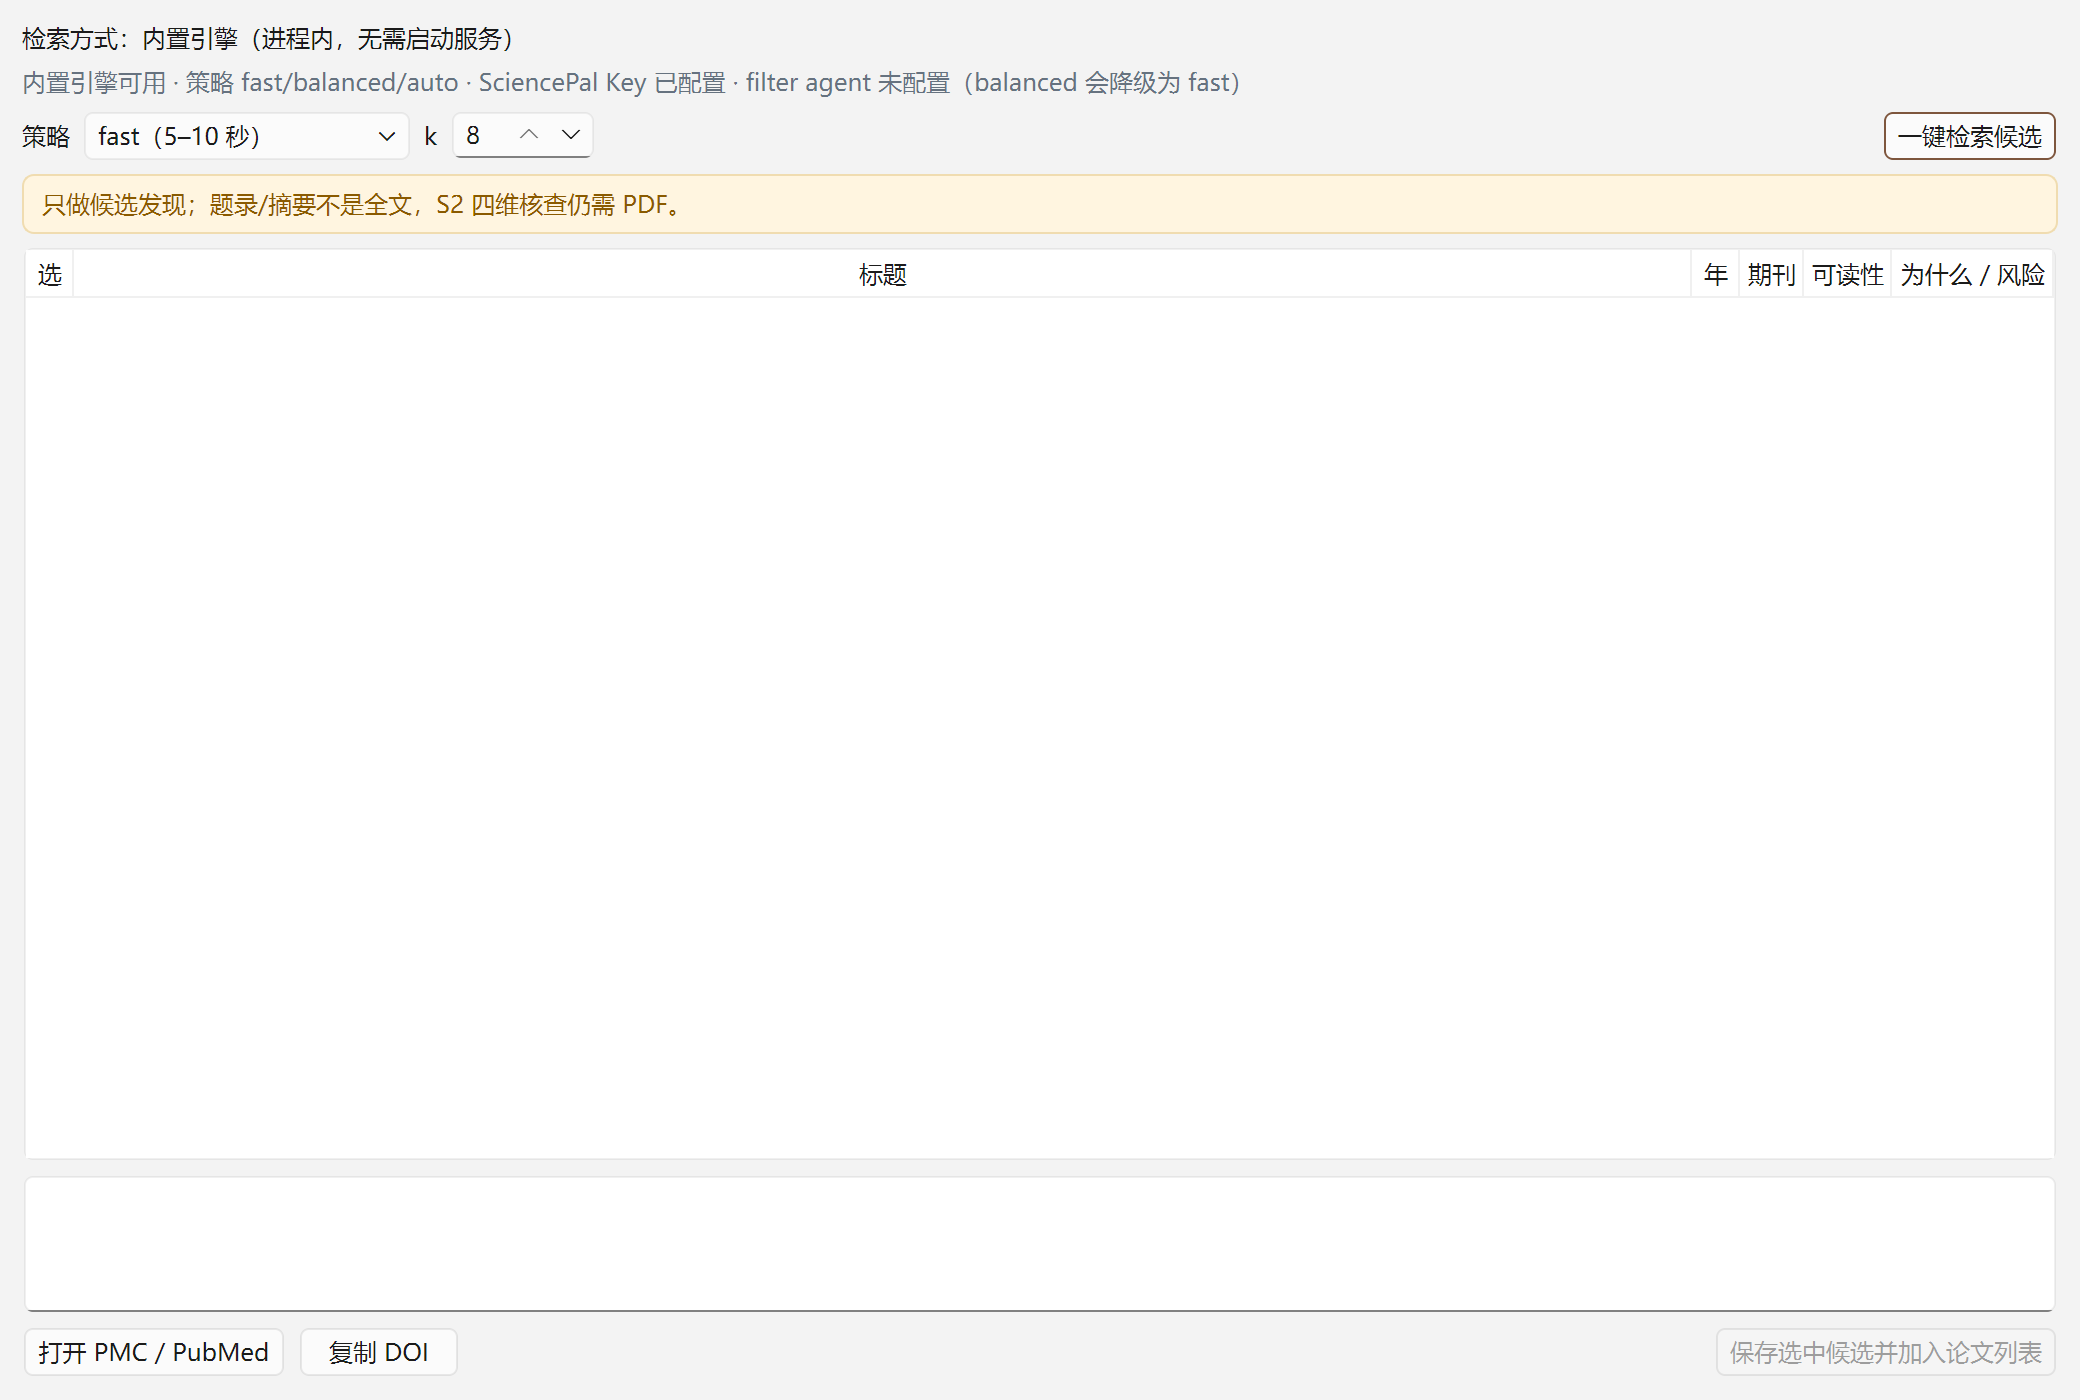
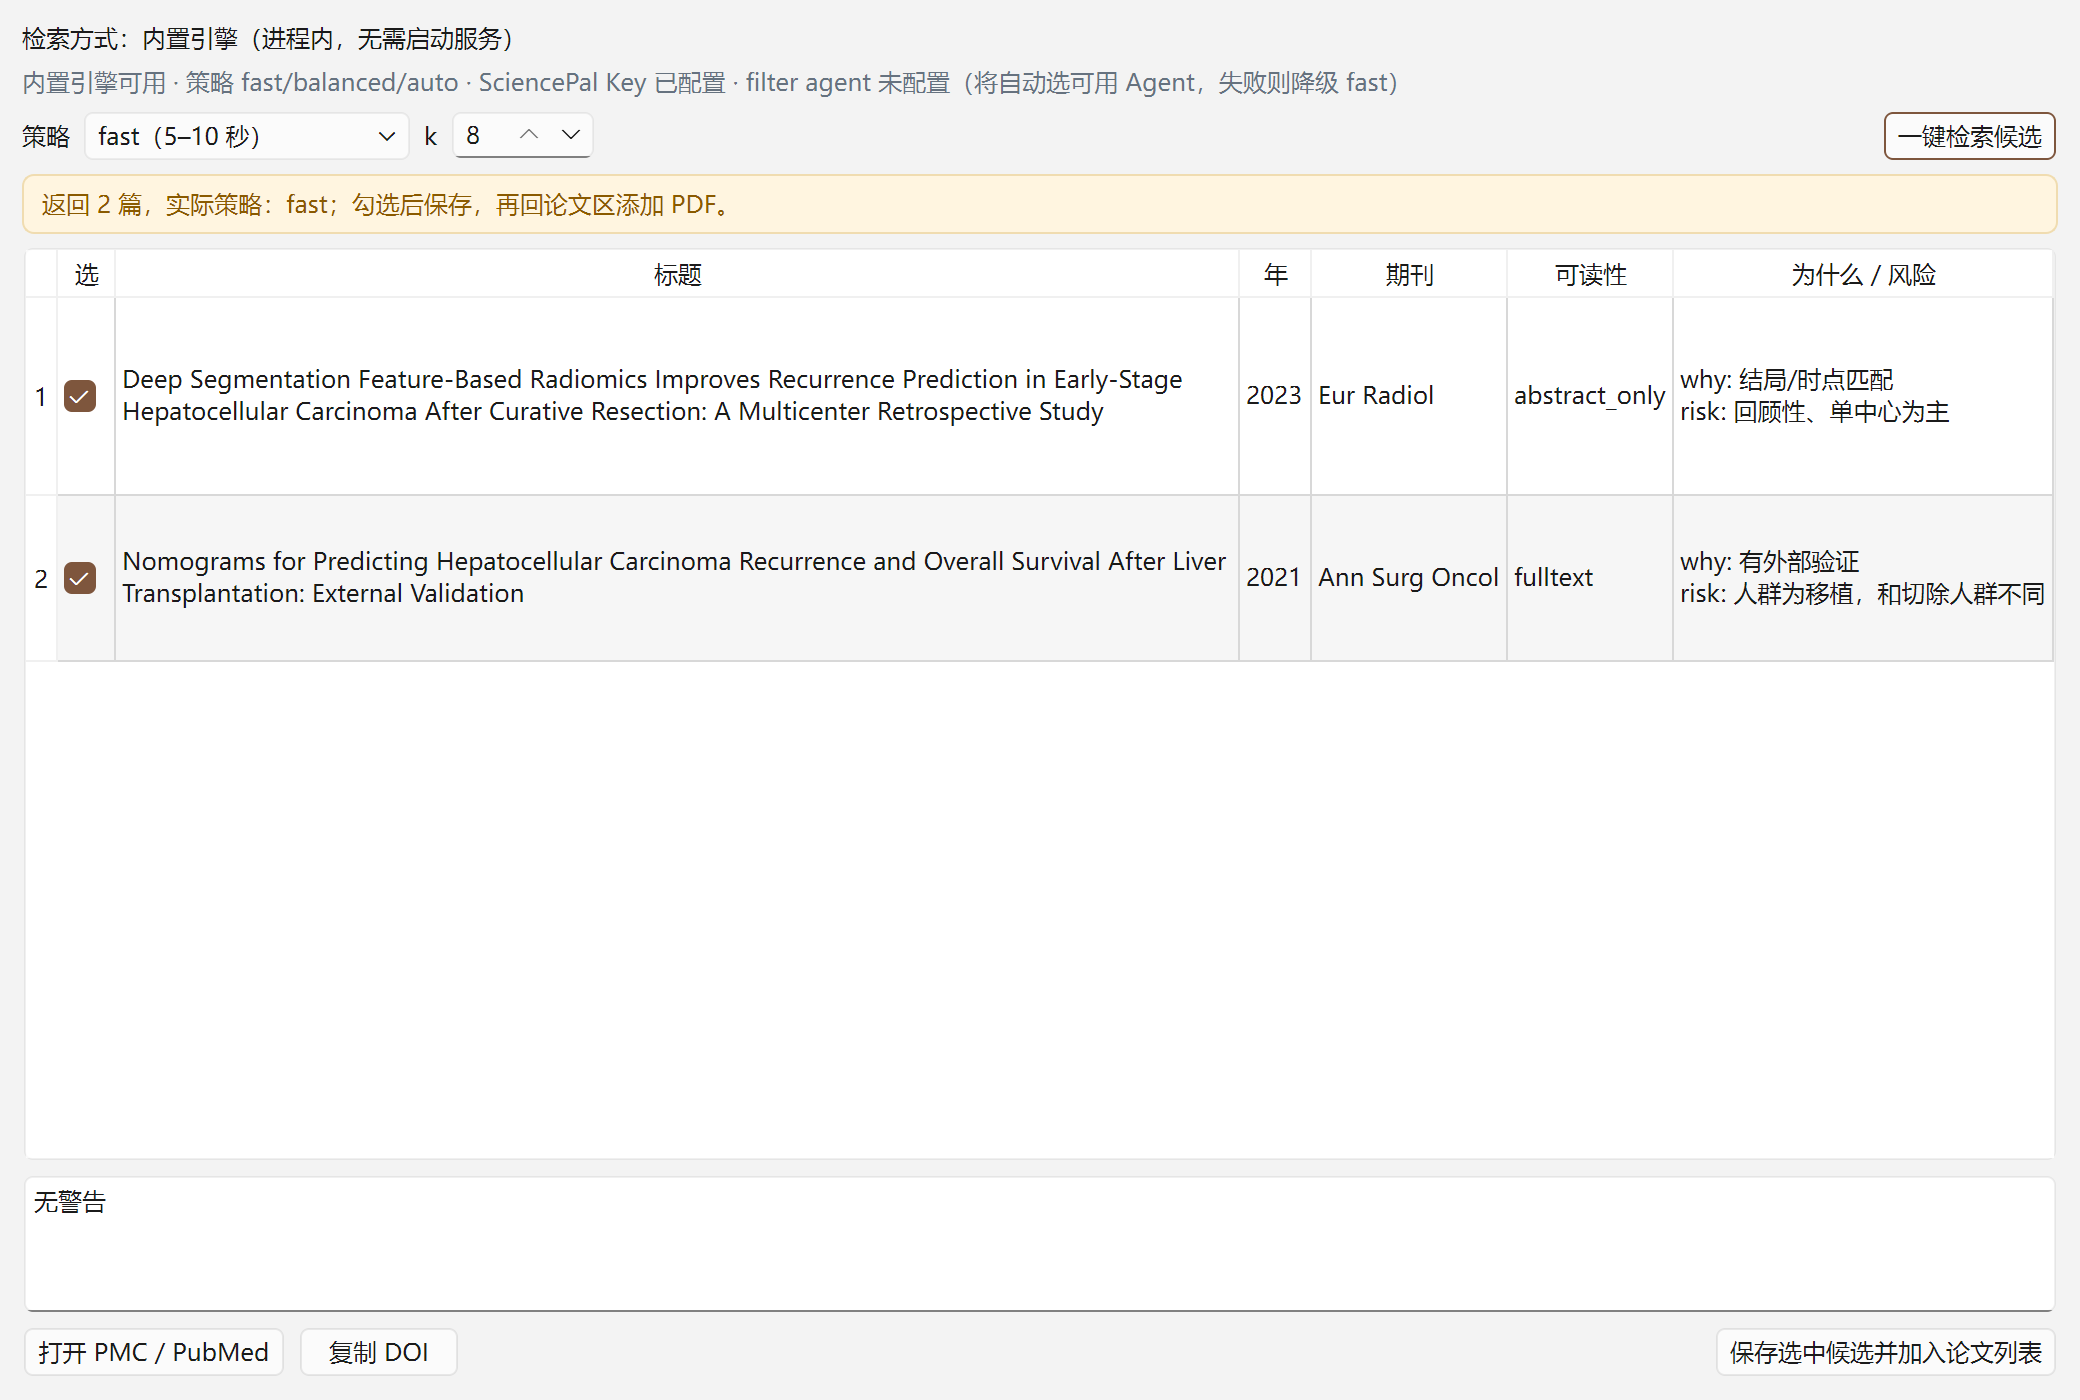
fix(router-dialog): 打开链接/标题换行/保存候选三个问题
- 打开 PMC/PubMed：未选行时不再无反应，默认打开第一条（或当前行）；URL 兜底
  readability.url → PubMed PMID；QDesktopServices 失败再试 webbrowser，仍失败则复制链接并提示
- 标题完整显示：去掉固定 48px 行高，表头 ResizeToContents + 行高按 sizeHintForRow 自适应，
  关闭文本省略（ElideNone），长标题自动换行
- 保存候选：落盘/建目录异常不再静默（弹错误框并显示目录）；未勾选时提示“保存全部”而不是死路；
  保存成功后状态行显示文件名再 accept()
- 新增 3 项离线 UI 测试（未选行打开、标题换行、保存落盘）→ test_router_engine 9/9
- 重拍 router_dialog.png（长标题换行示例）；README/HANDOFF 同步
- 重建 one-dir 并复验 --smoke；manifest 重新校验

diff --git a/desktop/app/router_dialog.py b/desktop/app/router_dialog.py
@@ -73,6 +73,10 @@ class RouterDialog(QDialog):
         self.table.setHorizontalHeaderLabels(["选", "标题", "年", "期刊", "可读性", "为什么 / 风险"])
         self.table.setWordWrap(True)
         self.table.setAlternatingRowColors(True)
+        self.table.setTextElideMode(Qt.TextElideMode.ElideNone)   # 标题不省略
+        self.table.setSelectionBehavior(QTableWidget.SelectionBehavior.SelectRows)
+        self.table.verticalHeader().setSectionResizeMode(
+            QHeaderView.ResizeMode.ResizeToContents)             # 行高随内容（长标题换行）
         h = self.table.horizontalHeader()
         h.setSectionResizeMode(0, QHeaderView.ResizeMode.ResizeToContents)
         h.setSectionResizeMode(1, QHeaderView.ResizeMode.Stretch)
@@ -180,7 +184,10 @@ class RouterDialog(QDialog):
             cell = QTableWidgetItem(extra)
             cell.setToolTip(extra)
             self.table.setItem(row, 5, cell)
-            self.table.setRowHeight(row, 48)
+        # 行高按内容自适应，标题长就换行显示（不再固定 48px 截断）
+        self.table.resizeRowsToContents()
+        for row in range(self.table.rowCount()):
+            self.table.setRowHeight(row, max(44, self.table.sizeHintForRow(row)))
         warnings = data.get("warnings") or []
         degraded = (data.get("meta") or {}).get("degraded")
         self.warn.setPlainText("\n".join(warnings) or ("已降级：SciencePal 不可用" if degraded else "无警告"))
@@ -197,22 +204,47 @@ class RouterDialog(QDialog):
         self.warn.setPlainText(msg)
 
     # ---------------- 候选操作 ----------------
-    def _row_paper(self):
-        row = self.table.currentRow()
-        if row < 0:
+    def _paper_at(self, row: int):
+        if row < 0 or row >= self.table.rowCount():
             return None
         cell = self.table.item(row, 0)
         return cell.data(Qt.ItemDataRole.UserRole) if cell else None
 
+    def _row_paper(self):
+        """当前行；没有选中时退回第一行（按钮不再“点了没反应”）。"""
+        p = self._paper_at(self.table.currentRow())
+        if p:
+            return p
+        for row in range(self.table.rowCount()):
+            p = self._paper_at(row)
+            if p:
+                return p
+        return None
+
     def open_fulltext(self):
         p = self._row_paper()
         if not p:
+            QMessageBox.information(self, "没有候选", "请先“一键检索候选”，再打开论文链接。")
             return
         rd = p.get("readability") or {}
-        url = rd.get("url") or (
-            "https://pubmed.ncbi.nlm.nih.gov/%s/" % p.get("pmid") if p.get("pmid") else "")
-        if url:
-            QDesktopServices.openUrl(QUrl(url))
+        pmid = str(p.get("pmid") or "").strip()
+        url = str(rd.get("url") or "").strip()
+        if not url and pmid:
+            url = "https://pubmed.ncbi.nlm.nih.gov/%s/" % pmid
+        if not url:
+            QMessageBox.information(self, "没有链接", "这篇候选没有 PMID/链接，无法打开。")
+            return
+        ok = QDesktopServices.openUrl(QUrl(url))
+        if not ok:                          # 极少数环境没有默认浏览器关联
+            try:
+                import webbrowser
+                ok = bool(webbrowser.open(url))
+            except Exception:  # noqa: BLE001
+                ok = False
+        if not ok:
+            QApplication.clipboard().setText(url)
+            QMessageBox.information(self, "已复制链接",
+                                    "系统未能自动打开浏览器，链接已复制到剪贴板：\n%s" % url)
 
     def copy_doi(self):
         p = self._row_paper()
@@ -222,10 +254,16 @@ class RouterDialog(QDialog):
     def save_candidates(self):
         selected = self._selected_papers()
         if not selected:
-            QMessageBox.warning(self, "未选择", "请至少勾选一篇候选。")
-            return
+            if not self.papers:
+                QMessageBox.warning(self, "没有候选", "请先“一键检索候选”。")
+                return
+            if QMessageBox.question(
+                    self, "未勾选候选",
+                    "没有勾选任何候选。要保存全部 %d 篇吗？" % len(self.papers)) \
+                    != QMessageBox.StandardButton.Yes:
+                return
+            selected = list(self.papers)
         out_dir = paths.app_data_dir() / "router_candidates"
-        out_dir.mkdir(parents=True, exist_ok=True)
         path = out_dir / ("router_candidates_%s.md" % time.strftime("%Y%m%d_%H%M%S"))
         lines = [
             "# PubMed 候选论文（Router）",
@@ -248,8 +286,15 @@ class RouterDialog(QDialog):
                 "- 摘要: %s" % (p.get("abstract_snippet") or "—"),
                 "",
             ]
-        path.write_text("\n".join(lines), encoding="utf-8")
+        try:
+            out_dir.mkdir(parents=True, exist_ok=True)
+            path.write_text("\n".join(lines), encoding="utf-8")
+        except Exception as exc:  # noqa: BLE001
+            QMessageBox.critical(self, "保存失败",
+                                 "%s: %s\n目标目录：%s" % (type(exc).__name__, exc, out_dir))
+            return
         self.candidate_path = str(path)
+        self.status.setText("已保存 %d 篇候选：%s" % (len(selected), path.name))
         self.accept()
 
     def _selected_papers(self):

diff --git a/desktop/tests/test_router_engine.py b/desktop/tests/test_router_engine.py
@@ -155,6 +155,78 @@ def case_dialog():
     return "只有内置引擎；Key 来自主窗口；无 filter agent 输入"
 
 
+def _dialog_with_papers():
+    from PySide6.QtWidgets import QApplication
+    from app.router_dialog import RouterDialog
+    QApplication.instance() or QApplication([])
+    dlg = RouterDialog(SCENARIO, "sp_live_abcdefghijklmnop")
+    papers = [
+        {"pmid": "111", "title": "Deep Segmentation Feature-Based Radiomics Improves "
+                                "Recurrence Prediction in Early-Stage Hepatocellular "
+                                "Carcinoma After Curative Resection: A Multicenter Study",
+         "year": 2023, "journal": "Eur Radiol", "doi": "10.1/x",
+         "readability": {"level": "abstract_only"}, "why": ["匹配"], "risk": ["回顾性"]},
+        {"pmid": "222", "title": "Second paper", "year": 2021, "journal": "Ann Surg",
+         "readability": {"level": "fulltext"}, "why": [], "risk": []},
+    ]
+    dlg._on_done({"papers": papers, "warnings": [], "strategy_used": "fast"})
+    return dlg
+
+
+def case_open_link_without_selection():
+    from PySide6.QtGui import QDesktopServices
+    dlg = _dialog_with_papers()
+    dlg.table.setCurrentCell(-1, -1)
+    opened = []
+    orig = QDesktopServices.openUrl
+    QDesktopServices.openUrl = staticmethod(lambda u: opened.append(u.toString()) or True)
+    try:
+        dlg.open_fulltext()
+    finally:
+        QDesktopServices.openUrl = orig
+        dlg.close()
+    assert opened == ["https://pubmed.ncbi.nlm.nih.gov/111/"], opened
+    return "未选行时打开第一篇（不再无反应）"
+
+
+def case_titles_wrap():
+    from PySide6.QtWidgets import QHeaderView
+    from PySide6.QtCore import Qt
+    dlg = _dialog_with_papers()
+    try:
+        vh = dlg.table.verticalHeader()
+        assert vh.sectionResizeMode(0) == QHeaderView.ResizeMode.ResizeToContents
+        assert dlg.table.textElideMode() == Qt.TextElideMode.ElideNone
+        assert dlg.table.rowHeight(0) > 44, dlg.table.rowHeight(0)
+        full = dlg.table.item(0, 1).text()
+        assert "Multicenter Study" in full      # 完整标题保留在 item 里
+    finally:
+        dlg.close()
+    return "标题完整、行高随内容换行"
+
+
+def case_save_candidates():
+    import os
+    import shutil
+    dlg = _dialog_with_papers()
+    data = BASE / "tests" / "_tmp_router_ui"
+    shutil.rmtree(data, ignore_errors=True)
+    os.environ["HCCFIT_DATA_DIR"] = str(data)
+    try:
+        dlg.save_candidates()
+        assert dlg.result() == 1, dlg.result()
+        path = Path(dlg.candidate_path)
+        assert path.is_file(), path
+        text = path.read_text(encoding="utf-8")
+        assert "First" in text or "Deep Segmentation" in text, text[:200]
+        assert "PMID: 111" in text
+    finally:
+        os.environ.pop("HCCFIT_DATA_DIR", None)
+        shutil.rmtree(data, ignore_errors=True)
+        dlg.close()
+    return "保存候选落盘并 accept()"
+
+
 def main():
     check("内置引擎可用", case_engine_available)
     check("检索参数透传", case_search_passthrough)
@@ -162,6 +234,9 @@ def main():
     check("后台线程：内置引擎", case_worker_builtin)
     check("后台线程：外部 HTTP", case_worker_http)
     check("对话框只有内置引擎", case_dialog)
+    check("打开链接（未选行）", case_open_link_without_selection)
+    check("标题换行完整显示", case_titles_wrap)
+    check("保存候选", case_save_candidates)
     ok = sum(1 for r in RESULTS if r)
     print("\n%d/%d 通过" % (ok, len(RESULTS)))
     return 0 if ok == len(RESULTS) else 1

diff --git a/tools/capture_router_dialog.py b/tools/capture_router_dialog.py
@@ -25,9 +25,26 @@ SCENARIO = {
 }
 
 
+SAMPLE_PAPERS = [
+    {"pmid": "37850181", "year": 2023, "journal": "Eur Radiol",
+     "title": "Deep Segmentation Feature-Based Radiomics Improves Recurrence Prediction "
+              "in Early-Stage Hepatocellular Carcinoma After Curative Resection: "
+              "A Multicenter Retrospective Study",
+     "readability": {"level": "abstract_only"}, "why": ["结局/时点匹配"],
+     "risk": ["回顾性、单中心为主"]},
+    {"pmid": "35296018", "year": 2021, "journal": "Ann Surg Oncol",
+     "title": "Nomograms for Predicting Hepatocellular Carcinoma Recurrence and Overall "
+              "Survival After Liver Transplantation: External Validation",
+     "readability": {"level": "fulltext"}, "why": ["有外部验证"],
+     "risk": ["人群为移植，和切除人群不同"]},
+]
+
+
 def main():
     app = QApplication([])
     dlg = RouterDialog(SCENARIO, "sp_live_demo_abcdefghijklmnop")
+    dlg._on_done({"papers": SAMPLE_PAPERS, "warnings": [],
+                  "strategy_used": "fast"})   # 截图展示长标题换行 + 勾选态
     dlg.resize(1040, 700)
     dlg.show()
     app.processEvents()

diff --git a/HANDOFF.md b/HANDOFF.md
@@ -350,6 +350,7 @@ curl http://127.0.0.1:8080/healthz
 | **界面收敛** | 去掉“检索方式/外部地址/token/filter agent”输入，只保留内置引擎；Key 与“大脑”合并为左侧最上方“1 · 大脑 / SciencePal 连接”（场景之上）；Key 空/非 ASCII/空格实时红字警告，启动与 balanced 会拦截 |
 | **fast vs balanced 文档** | 接入说明新增 3.1：fast 0 条提示词（全规则），balanced 1 条提示词（逐句解释 + 解析/降级路径） |
 | **只填 Key 的 balanced** | 未配 `SCIENCEPAL_FILTER_AGENT_ID` 时自动从可用 Agent 里选（唯一可用，或名称含 filter/筛/审核/HCC 的唯一匹配）；无法唯一确定才降级 fast，并提示显式配置；成功时 warning 标注“已自动使用…” |
+| **候选对话框修复** | “打开 PMC/PubMed”未选行时默认打开第一篇、并有浏览器失败兜底；标题列不再截断（行高随内容换行）；保存候选出错不再静默（弹错误框），未勾选时可一键保存全部；新增 3 项 UI 测试 → test_router_engine 9/9 |
 | **接入文档** | 新增 `docs/HCC-Fit_SciencePal接入与检索说明_2026-10-30.md`（官方 8 条规则、fast vs balanced、五阶段、错误码、本次修复） |
 | **测试** | Router 新增 `test_agent_client.py`（8 项，全离线）→ 19 项；桌面新增 `test_sciencepal_client.py`（4 项）→ 9 个脚本 |
 

diff --git a/_tmp_dlg3/router_candidates/router_candidates_20261030_175353.md b/_tmp_dlg3/router_candidates/router_candidates_20261030_175353.md
@@ -1,0 +1,24 @@
+# PubMed 候选论文（Router）
+
+> 这是题录/摘要，不是论文全文。S2 四维核查需要全文；
+> 请下载 PDF 后回到“论文”区添加，或把本文件仅作为候选清单。
+
+## 1. A very long title about hepatocellular carcinoma prediction model external validation A very long title about hepatocellular carcinoma prediction model external validation A very long title about hepatocellular carcinoma prediction model external validation 
+- PMID: 111
+- DOI: —
+- 年/期刊: 2021 / J Hepatol
+- 可读性: abstract_only
+- 链接: —
+- why: x
+- risk: 
+- 摘要: —
+
+## 2. Second
+- PMID: 222
+- DOI: —
+- 年/期刊: 2022 / K
+- 可读性: fulltext
+- 链接: —
+- why: 
+- risk: 
+- 摘要: —

diff --git a/_tmp_routerdlg/router_candidates/router_candidates_20261030_175226.md b/_tmp_routerdlg/router_candidates/router_candidates_20261030_175226.md
@@ -1,0 +1,24 @@
+# PubMed 候选论文（Router）
+
+> 这是题录/摘要，不是论文全文。S2 四维核查需要全文；
+> 请下载 PDF 后回到“论文”区添加，或把本文件仅作为候选清单。
+
+## 1. A very long title A very long title A very long title A very long title A very long title A very long title A very long title A very long title 
+- PMID: 111
+- DOI: —
+- 年/期刊: 2021 / J
+- 可读性: abstract_only
+- 链接: https://pubmed.ncbi.nlm.nih.gov/111/
+- why: x
+- risk: y
+- 摘要: —
+
+## 2. Second
+- PMID: 222
+- DOI: —
+- 年/期刊: 2022 / K
+- 可读性: fulltext
+- 链接: https://pmc.example/222
+- why: 
+- risk: 
+- 摘要: —

diff --git a/_tmp_routerdlg2/router_candidates/router_candidates_20261030_175240.md b/_tmp_routerdlg2/router_candidates/router_candidates_20261030_175240.md
@@ -1,0 +1,14 @@
+# PubMed 候选论文（Router）
+
+> 这是题录/摘要，不是论文全文。S2 四维核查需要全文；
+> 请下载 PDF 后回到“论文”区添加，或把本文件仅作为候选清单。
+
+## 1. A very long title A very long title A very long title A very long title A very long title A very long title A very long title A very long title 
+- PMID: 111
+- DOI: —
+- 年/期刊: 2021 / J
+- 可读性: abstract_only
+- 链接: —
+- why: 
+- risk: 
+- 摘要: —
